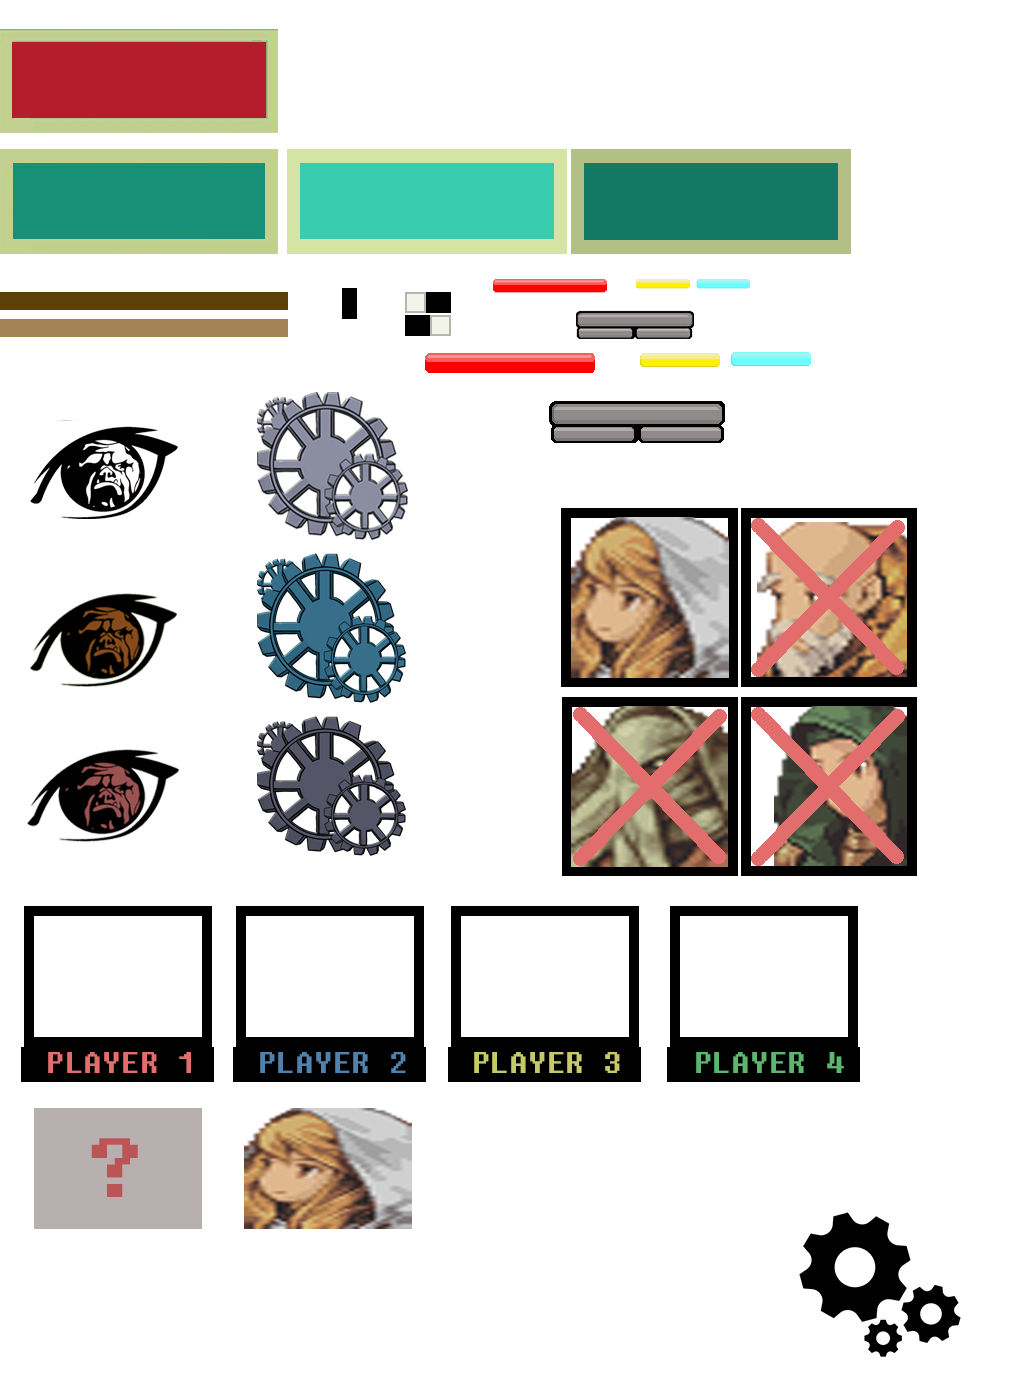
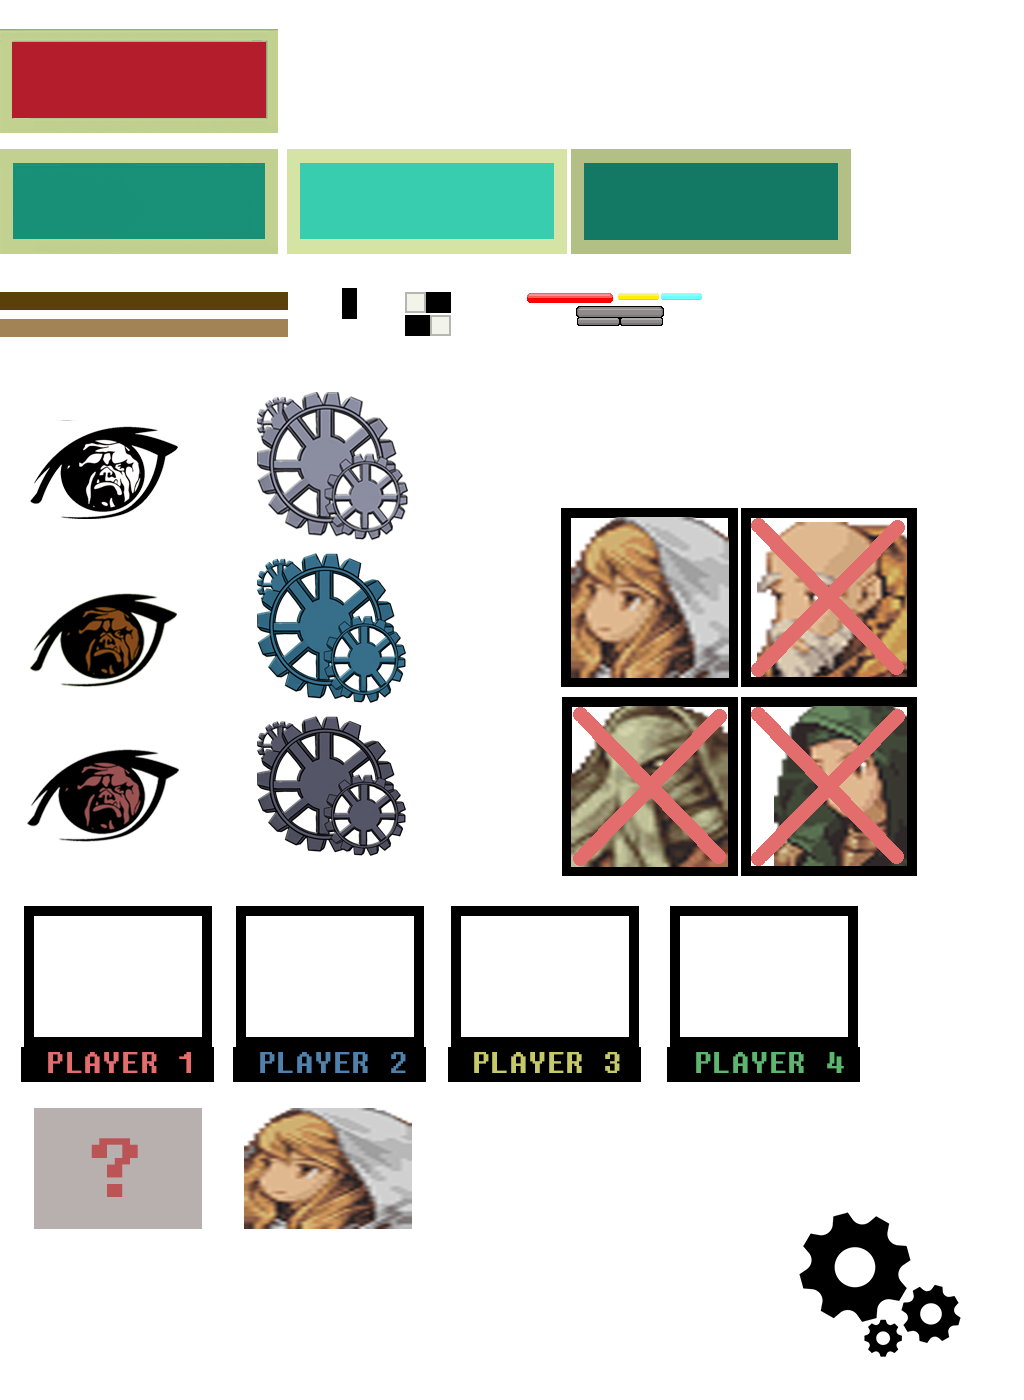
Redid all UI bars, scaled and adjusted everything in code

Changed region(s): [[0.4062, 0.1843, 0.8125, 0.3379]]

diff --git a/FantasyBrawl_Project/Motor2D/j1UIScene.cpp b/FantasyBrawl_Project/Motor2D/j1UIScene.cpp
@@ -135,79 +135,79 @@ bool j1UIScene::Start()
 		UI_element* margin = App->gui->createImage(0, 0, margin_tex, this);
 
 		//player1
-		UI_element* hp_bar_player1 = App->gui->createImageFromAtlas(App->scene->player1->Entityinfo.position.x, App->scene->player1->Entityinfo.position.y,  {493, 279, 114, 14}, this);
+		UI_element* hp_bar_player1 = App->gui->createImageFromAtlas(App->scene->player1->Entityinfo.position.x, App->scene->player1->Entityinfo.position.y,  {527, 293, 86, 10}, this);
 		hp_bar1 = hp_bar_player1;
 
-		UI_element* sp_bar_player1 = App->gui->createImageFromAtlas(App->scene->player1->Entityinfo.position.x, App->scene->player1->Entityinfo.position.y, { 636, 279, 54, 9 }, this);
+		UI_element* sp_bar_player1 = App->gui->createImageFromAtlas(App->scene->player1->Entityinfo.position.x, App->scene->player1->Entityinfo.position.y, { 618, 293, 42, 7 }, this);
 		sp_bar1 = sp_bar_player1;
 
-		UI_element* shield_bar_player1 = App->gui->createImageFromAtlas(App->scene->player1->Entityinfo.position.x, App->scene->player1->Entityinfo.position.y, { 697, 279, 54, 9 }, this);
+		UI_element* shield_bar_player1 = App->gui->createImageFromAtlas(App->scene->player1->Entityinfo.position.x, App->scene->player1->Entityinfo.position.y, { 661, 293, 42, 7 }, this);
 		shield_bar1 = shield_bar_player1;
 
-		UI_element* hp_capsule_bar1 = App->gui->createImageFromAtlas(App->scene->player1->Entityinfo.position.x, App->scene->player1->Entityinfo.position.y, { 575, 311, 119, 17 }, this);
+		UI_element* hp_capsule_bar1 = App->gui->createImageFromAtlas(App->scene->player1->Entityinfo.position.x, App->scene->player1->Entityinfo.position.y, { 576, 306, 88, 12 }, this);
 		hp_capsule1 = hp_capsule_bar1;
 
-		UI_element* sp_capsule_bar1 = App->gui->createImageFromAtlas(App->scene->player1->Entityinfo.position.x, App->scene->player1->Entityinfo.position.y, { 577, 327, 57, 12 }, this);
+		UI_element* sp_capsule_bar1 = App->gui->createImageFromAtlas(App->scene->player1->Entityinfo.position.x, App->scene->player1->Entityinfo.position.y, { 577, 318, 43, 8 }, this);
 		sp_capsule1 = sp_capsule_bar1;
 
-		UI_element* shield_capsule_bar1 = App->gui->createImageFromAtlas(App->scene->player1->Entityinfo.position.x, App->scene->player1->Entityinfo.position.y, { 635, 327, 57, 12 }, this);
+		UI_element* shield_capsule_bar1 = App->gui->createImageFromAtlas(App->scene->player1->Entityinfo.position.x, App->scene->player1->Entityinfo.position.y, { 620, 318, 43, 8 }, this);
 		shield_capsule1 = shield_capsule_bar1;
 
 		//player2
-		UI_element* hp_bar_player2 = App->gui->createImageFromAtlas(App->scene->player2->Entityinfo.position.x, App->scene->player2->Entityinfo.position.y, { 493, 279, 114, 14 }, this);
+		UI_element* hp_bar_player2 = App->gui->createImageFromAtlas(App->scene->player2->Entityinfo.position.x, App->scene->player2->Entityinfo.position.y, { 527, 293, 86, 10 }, this);
 		hp_bar2 = hp_bar_player2;
 
-		UI_element* sp_bar_player2 = App->gui->createImageFromAtlas(App->scene->player2->Entityinfo.position.x, App->scene->player2->Entityinfo.position.y, { 636, 279, 54, 9 }, this);
+		UI_element* sp_bar_player2 = App->gui->createImageFromAtlas(App->scene->player2->Entityinfo.position.x, App->scene->player2->Entityinfo.position.y, { 618, 293, 42, 7 }, this);
 		sp_bar2 = sp_bar_player2;
 
-		UI_element* shield_bar_player2 = App->gui->createImageFromAtlas(App->scene->player2->Entityinfo.position.x, App->scene->player1->Entityinfo.position.y, { 697, 279, 54, 9 }, this);
+		UI_element* shield_bar_player2 = App->gui->createImageFromAtlas(App->scene->player2->Entityinfo.position.x, App->scene->player1->Entityinfo.position.y, { 661, 293, 42, 7 }, this);
 		shield_bar2 = shield_bar_player2;
 
-		UI_element* hp_capsule_bar2 = App->gui->createImageFromAtlas(App->scene->player2->Entityinfo.position.x, App->scene->player2->Entityinfo.position.y, { 575, 311, 119, 17 }, this);
+		UI_element* hp_capsule_bar2 = App->gui->createImageFromAtlas(App->scene->player2->Entityinfo.position.x, App->scene->player2->Entityinfo.position.y, { 576, 306, 88, 12 }, this);
 		hp_capsule2 = hp_capsule_bar2;
 
-		UI_element* sp_capsule_bar2 = App->gui->createImageFromAtlas(App->scene->player2->Entityinfo.position.x, App->scene->player1->Entityinfo.position.y, { 577, 327, 57, 12 }, this);
+		UI_element* sp_capsule_bar2 = App->gui->createImageFromAtlas(App->scene->player2->Entityinfo.position.x, App->scene->player1->Entityinfo.position.y, { 577, 318, 43, 8 }, this);
 		sp_capsule2 = sp_capsule_bar2;
 
-		UI_element* shield_capsule_bar2 = App->gui->createImageFromAtlas(App->scene->player2->Entityinfo.position.x, App->scene->player1->Entityinfo.position.y, { 635, 327, 57, 12 }, this);
+		UI_element* shield_capsule_bar2 = App->gui->createImageFromAtlas(App->scene->player2->Entityinfo.position.x, App->scene->player1->Entityinfo.position.y, { 620, 318, 43, 8 }, this);
 		shield_capsule2 = shield_capsule_bar2;
 
 		//player3
-		UI_element* hp_bar_player3 = App->gui->createImageFromAtlas(App->scene->player3->Entityinfo.position.x, App->scene->player3->Entityinfo.position.y, { 493, 279, 114, 14 }, this);
+		UI_element* hp_bar_player3 = App->gui->createImageFromAtlas(App->scene->player3->Entityinfo.position.x, App->scene->player3->Entityinfo.position.y, { 527, 293, 86, 10 }, this);
 		hp_bar3 = hp_bar_player3;
 
-		UI_element* sp_bar_player3 = App->gui->createImageFromAtlas(App->scene->player3->Entityinfo.position.x, App->scene->player3->Entityinfo.position.y, { 636, 279, 54, 9 }, this);
+		UI_element* sp_bar_player3 = App->gui->createImageFromAtlas(App->scene->player3->Entityinfo.position.x, App->scene->player3->Entityinfo.position.y, { 618, 293, 42, 7 }, this);
 		sp_bar3 = sp_bar_player3;
 
-		UI_element* shield_bar_player3 = App->gui->createImageFromAtlas(App->scene->player3->Entityinfo.position.x, App->scene->player1->Entityinfo.position.y, { 697, 279, 54, 9 }, this);
+		UI_element* shield_bar_player3 = App->gui->createImageFromAtlas(App->scene->player3->Entityinfo.position.x, App->scene->player1->Entityinfo.position.y, { 661, 293, 42, 7 }, this);
 		shield_bar3 = shield_bar_player3;
 
-		UI_element* hp_capsule_bar3 = App->gui->createImageFromAtlas(App->scene->player3->Entityinfo.position.x, App->scene->player3->Entityinfo.position.y, { 575, 311, 119, 17 }, this);
+		UI_element* hp_capsule_bar3 = App->gui->createImageFromAtlas(App->scene->player3->Entityinfo.position.x, App->scene->player3->Entityinfo.position.y, { 576, 306, 88, 12 }, this);
 		hp_capsule3 = hp_capsule_bar3;
 
-		UI_element* sp_capsule_bar3 = App->gui->createImageFromAtlas(App->scene->player3->Entityinfo.position.x, App->scene->player1->Entityinfo.position.y, { 577, 327, 57, 12 }, this);
+		UI_element* sp_capsule_bar3 = App->gui->createImageFromAtlas(App->scene->player3->Entityinfo.position.x, App->scene->player1->Entityinfo.position.y, { 577, 318, 43, 8 }, this);
 		sp_capsule3 = sp_capsule_bar3;
 
-		UI_element* shield_capsule_bar3 = App->gui->createImageFromAtlas(App->scene->player3->Entityinfo.position.x, App->scene->player1->Entityinfo.position.y, { 635, 327, 57, 12 }, this);
+		UI_element* shield_capsule_bar3 = App->gui->createImageFromAtlas(App->scene->player3->Entityinfo.position.x, App->scene->player1->Entityinfo.position.y, { 620, 318, 43, 8 }, this);
 		shield_capsule3 = shield_capsule_bar3;
 
 		//player4
-		UI_element* hp_bar_player4 = App->gui->createImageFromAtlas(App->scene->player4->Entityinfo.position.x, App->scene->player4->Entityinfo.position.y, { 493, 279, 114, 14 }, this);
+		UI_element* hp_bar_player4 = App->gui->createImageFromAtlas(App->scene->player4->Entityinfo.position.x, App->scene->player4->Entityinfo.position.y, { 527, 293, 86, 10 }, this);
 		hp_bar4 = hp_bar_player4;
 
-		UI_element* sp_bar_player4 = App->gui->createImageFromAtlas(App->scene->player4->Entityinfo.position.x, App->scene->player4->Entityinfo.position.y, { 636, 279, 54, 9 }, this);
+		UI_element* sp_bar_player4 = App->gui->createImageFromAtlas(App->scene->player4->Entityinfo.position.x, App->scene->player4->Entityinfo.position.y, { 618, 293, 42, 7 }, this);
 		sp_bar4 = sp_bar_player4;
 
-		UI_element* shield_bar_player4 = App->gui->createImageFromAtlas(App->scene->player4->Entityinfo.position.x, App->scene->player1->Entityinfo.position.y, { 697, 279, 54, 9 }, this);
+		UI_element* shield_bar_player4 = App->gui->createImageFromAtlas(App->scene->player4->Entityinfo.position.x, App->scene->player1->Entityinfo.position.y, { 661, 293, 42, 7 }, this);
 		shield_bar4 = shield_bar_player4;
 
-		UI_element* hp_capsule_bar4 = App->gui->createImageFromAtlas(App->scene->player4->Entityinfo.position.x, App->scene->player4->Entityinfo.position.y, { 575, 311, 119, 17 }, this);
+		UI_element* hp_capsule_bar4 = App->gui->createImageFromAtlas(App->scene->player4->Entityinfo.position.x, App->scene->player4->Entityinfo.position.y, { 576, 306, 88, 12 }, this);
 		hp_capsule4 = hp_capsule_bar4;
 
-		UI_element* sp_capsule_bar4 = App->gui->createImageFromAtlas(App->scene->player4->Entityinfo.position.x, App->scene->player1->Entityinfo.position.y, { 577, 327, 57, 12 }, this);
+		UI_element* sp_capsule_bar4 = App->gui->createImageFromAtlas(App->scene->player4->Entityinfo.position.x, App->scene->player1->Entityinfo.position.y, { 577, 318, 43, 8 }, this);
 		sp_capsule4 = sp_capsule_bar4;
 
-		UI_element* shield_capsule_bar4 = App->gui->createImageFromAtlas(App->scene->player4->Entityinfo.position.x, App->scene->player1->Entityinfo.position.y, { 635, 327, 57, 12 }, this);
+		UI_element* shield_capsule_bar4 = App->gui->createImageFromAtlas(App->scene->player4->Entityinfo.position.x, App->scene->player1->Entityinfo.position.y, { 620, 318, 43, 8 }, this);
 		shield_capsule4 = shield_capsule_bar4;
 		
 
@@ -465,23 +465,23 @@ bool j1UIScene::Update(float dt)
 	}
 	
 	//UPDATING HP CAPSULES POSITION
-	hp_capsule1->localPosition.x = App->scene->player1->Entityinfo.position.x - (int)(App->scene->player1->Entityinfo.entitycoll->rect.w * 3.5f  * scale) + 27;
-	hp_capsule1->localPosition.y = App->scene->player1->Entityinfo.position.y - 77;
-	hp_capsule2->localPosition.x = App->scene->player2->Entityinfo.position.x - (int)(App->scene->player2->Entityinfo.entitycoll->rect.w * 3.5f  * scale) + 27;
-	hp_capsule2->localPosition.y = App->scene->player2->Entityinfo.position.y - 77;
-	hp_capsule3->localPosition.x = App->scene->player3->Entityinfo.position.x - (int)(App->scene->player3->Entityinfo.entitycoll->rect.w * 3.5f  * scale) + 27;
-	hp_capsule3->localPosition.y = App->scene->player3->Entityinfo.position.y - 77;
-	hp_capsule4->localPosition.x = App->scene->player4->Entityinfo.position.x - (int)(App->scene->player4->Entityinfo.entitycoll->rect.w * 3.5f  * scale) + 27;
-	hp_capsule4->localPosition.y = App->scene->player4->Entityinfo.position.y - 77;
+	hp_capsule1->localPosition.x = App->scene->player1->Entityinfo.position.x - (int)(App->scene->player1->Entityinfo.entitycoll->rect.w * 3.5f  * scale) + 42;
+	hp_capsule1->localPosition.y = App->scene->player1->Entityinfo.position.y - 72;
+	hp_capsule2->localPosition.x = App->scene->player2->Entityinfo.position.x - (int)(App->scene->player2->Entityinfo.entitycoll->rect.w * 3.5f  * scale) + 42;
+	hp_capsule2->localPosition.y = App->scene->player2->Entityinfo.position.y - 72;
+	hp_capsule3->localPosition.x = App->scene->player3->Entityinfo.position.x - (int)(App->scene->player3->Entityinfo.entitycoll->rect.w * 3.5f  * scale) + 42;
+	hp_capsule3->localPosition.y = App->scene->player3->Entityinfo.position.y - 72;
+	hp_capsule4->localPosition.x = App->scene->player4->Entityinfo.position.x - (int)(App->scene->player4->Entityinfo.entitycoll->rect.w * 3.5f  * scale) + 42;
+	hp_capsule4->localPosition.y = App->scene->player4->Entityinfo.position.y - 72;
 
 	//UPDATING SP CAPSULES POSITION
-	sp_capsule1->localPosition.x = App->scene->player1->Entityinfo.position.x - (int)(App->scene->player1->Entityinfo.entitycoll->rect.w * 3.5f  * scale) + 29;
+	sp_capsule1->localPosition.x = App->scene->player1->Entityinfo.position.x - (int)(App->scene->player1->Entityinfo.entitycoll->rect.w * 3.5f  * scale) + 43;
 	sp_capsule1->localPosition.y = App->scene->player1->Entityinfo.position.y - 60;
-	sp_capsule2->localPosition.x = App->scene->player2->Entityinfo.position.x - (int)(App->scene->player2->Entityinfo.entitycoll->rect.w * 3.5f  * scale) + 29;
+	sp_capsule2->localPosition.x = App->scene->player2->Entityinfo.position.x - (int)(App->scene->player2->Entityinfo.entitycoll->rect.w * 3.5f  * scale) + 43;
 	sp_capsule2->localPosition.y = App->scene->player2->Entityinfo.position.y - 60;
-	sp_capsule3->localPosition.x = App->scene->player3->Entityinfo.position.x - (int)(App->scene->player3->Entityinfo.entitycoll->rect.w * 3.5f  * scale) + 29;
+	sp_capsule3->localPosition.x = App->scene->player3->Entityinfo.position.x - (int)(App->scene->player3->Entityinfo.entitycoll->rect.w * 3.5f  * scale) + 43;
 	sp_capsule3->localPosition.y = App->scene->player3->Entityinfo.position.y - 60;
-	sp_capsule4->localPosition.x = App->scene->player4->Entityinfo.position.x - (int)(App->scene->player4->Entityinfo.entitycoll->rect.w * 3.5f  * scale) + 29;
+	sp_capsule4->localPosition.x = App->scene->player4->Entityinfo.position.x - (int)(App->scene->player4->Entityinfo.entitycoll->rect.w * 3.5f  * scale) + 43;
 	sp_capsule4->localPosition.y = App->scene->player4->Entityinfo.position.y - 60;
 
 	//UPDATING SHIELD CAPSULES POSITION
@@ -495,34 +495,34 @@ bool j1UIScene::Update(float dt)
 	shield_capsule4->localPosition.y = App->scene->player4->Entityinfo.position.y - 60;
 
 	//UPDATING HP BARS POSITION
-	hp_bar1->localPosition.x = App->scene->player1->Entityinfo.position.x - (int)(App->scene->player1->Entityinfo.entitycoll->rect.w * 3.5f  * scale) + 30;
-	hp_bar1->localPosition.y = App->scene->player1->Entityinfo.position.y - 75;				 
-	hp_bar2->localPosition.x = App->scene->player2->Entityinfo.position.x - (int)(App->scene->player2->Entityinfo.entitycoll->rect.w * 3.5f  * scale) + 30;
-	hp_bar2->localPosition.y = App->scene->player2->Entityinfo.position.y - 75;
-	hp_bar3->localPosition.x = App->scene->player3->Entityinfo.position.x - (int)(App->scene->player3->Entityinfo.entitycoll->rect.w * 3.5f  * scale) + 30;
-	hp_bar3->localPosition.y = App->scene->player3->Entityinfo.position.y - 75;
-	hp_bar4->localPosition.x = App->scene->player4->Entityinfo.position.x - (int)(App->scene->player4->Entityinfo.entitycoll->rect.w * 3.5f  * scale) + 30;
-	hp_bar4->localPosition.y = App->scene->player4->Entityinfo.position.y - 75;
+	hp_bar1->localPosition.x = App->scene->player1->Entityinfo.position.x - (int)(App->scene->player1->Entityinfo.entitycoll->rect.w * 3.5f  * scale) + 43;
+	hp_bar1->localPosition.y = App->scene->player1->Entityinfo.position.y - 71;				 
+	hp_bar2->localPosition.x = App->scene->player2->Entityinfo.position.x - (int)(App->scene->player2->Entityinfo.entitycoll->rect.w * 3.5f  * scale) + 43;
+	hp_bar2->localPosition.y = App->scene->player2->Entityinfo.position.y - 71;
+	hp_bar3->localPosition.x = App->scene->player3->Entityinfo.position.x - (int)(App->scene->player3->Entityinfo.entitycoll->rect.w * 3.5f  * scale) + 43;
+	hp_bar3->localPosition.y = App->scene->player3->Entityinfo.position.y - 71;
+	hp_bar4->localPosition.x = App->scene->player4->Entityinfo.position.x - (int)(App->scene->player4->Entityinfo.entitycoll->rect.w * 3.5f  * scale) + 43;
+	hp_bar4->localPosition.y = App->scene->player4->Entityinfo.position.y - 71;
 																								 
 	//UPDATING SP BARS POSITION																	 
-	sp_bar1->localPosition.x = App->scene->player1->Entityinfo.position.x - (int)(App->scene->player1->Entityinfo.entitycoll->rect.w * 3.5f  * scale) + 31;
-	sp_bar1->localPosition.y = App->scene->player1->Entityinfo.position.y - 59;
-	sp_bar2->localPosition.x = App->scene->player2->Entityinfo.position.x - (int)(App->scene->player2->Entityinfo.entitycoll->rect.w * 3.5f  * scale) + 31;
-	sp_bar2->localPosition.y = App->scene->player2->Entityinfo.position.y - 59;
-	sp_bar3->localPosition.x = App->scene->player3->Entityinfo.position.x - (int)(App->scene->player3->Entityinfo.entitycoll->rect.w * 3.5f  * scale) + 31;
-	sp_bar3->localPosition.y = App->scene->player3->Entityinfo.position.y - 59;
-	sp_bar4->localPosition.x = App->scene->player4->Entityinfo.position.x - (int)(App->scene->player4->Entityinfo.entitycoll->rect.w * 3.5f  * scale) + 31;
-	sp_bar4->localPosition.y = App->scene->player4->Entityinfo.position.y - 59;
+	sp_bar1->localPosition.x = App->scene->player1->Entityinfo.position.x - (int)(App->scene->player1->Entityinfo.entitycoll->rect.w * 3.5f  * scale) + 44;
+	sp_bar1->localPosition.y = App->scene->player1->Entityinfo.position.y - 60;
+	sp_bar2->localPosition.x = App->scene->player2->Entityinfo.position.x - (int)(App->scene->player2->Entityinfo.entitycoll->rect.w * 3.5f  * scale) + 44;
+	sp_bar2->localPosition.y = App->scene->player2->Entityinfo.position.y - 60;
+	sp_bar3->localPosition.x = App->scene->player3->Entityinfo.position.x - (int)(App->scene->player3->Entityinfo.entitycoll->rect.w * 3.5f  * scale) + 44;
+	sp_bar3->localPosition.y = App->scene->player3->Entityinfo.position.y - 60;
+	sp_bar4->localPosition.x = App->scene->player4->Entityinfo.position.x - (int)(App->scene->player4->Entityinfo.entitycoll->rect.w * 3.5f  * scale) + 44;
+	sp_bar4->localPosition.y = App->scene->player4->Entityinfo.position.y - 60;
 
 	//UPDATING SHIELD BARS POSITION																	 
-	shield_bar1->localPosition.x = App->scene->player1->Entityinfo.position.x - (int)(App->scene->player1->Entityinfo.entitycoll->rect.w * 3.5f  * scale) + 88;
-	shield_bar1->localPosition.y = App->scene->player1->Entityinfo.position.y - 59;
-	shield_bar2->localPosition.x = App->scene->player2->Entityinfo.position.x - (int)(App->scene->player2->Entityinfo.entitycoll->rect.w * 3.5f  * scale) + 88;
-	shield_bar2->localPosition.y = App->scene->player2->Entityinfo.position.y - 59;
-	shield_bar3->localPosition.x = App->scene->player3->Entityinfo.position.x - (int)(App->scene->player3->Entityinfo.entitycoll->rect.w * 3.5f  * scale) + 88;
-	shield_bar3->localPosition.y = App->scene->player3->Entityinfo.position.y - 59;
-	shield_bar4->localPosition.x = App->scene->player4->Entityinfo.position.x - (int)(App->scene->player4->Entityinfo.entitycoll->rect.w * 3.5f  * scale) + 88;
-	shield_bar4->localPosition.y = App->scene->player4->Entityinfo.position.y - 59;
+	shield_bar1->localPosition.x = App->scene->player1->Entityinfo.position.x - (int)(App->scene->player1->Entityinfo.entitycoll->rect.w * 3.5f  * scale) + 87;
+	shield_bar1->localPosition.y = App->scene->player1->Entityinfo.position.y - 60;
+	shield_bar2->localPosition.x = App->scene->player2->Entityinfo.position.x - (int)(App->scene->player2->Entityinfo.entitycoll->rect.w * 3.5f  * scale) + 87;
+	shield_bar2->localPosition.y = App->scene->player2->Entityinfo.position.y - 60;
+	shield_bar3->localPosition.x = App->scene->player3->Entityinfo.position.x - (int)(App->scene->player3->Entityinfo.entitycoll->rect.w * 3.5f  * scale) + 87;
+	shield_bar3->localPosition.y = App->scene->player3->Entityinfo.position.y - 60;
+	shield_bar4->localPosition.x = App->scene->player4->Entityinfo.position.x - (int)(App->scene->player4->Entityinfo.entitycoll->rect.w * 3.5f  * scale) + 87;
+	shield_bar4->localPosition.y = App->scene->player4->Entityinfo.position.y - 60;
 
 
 	
